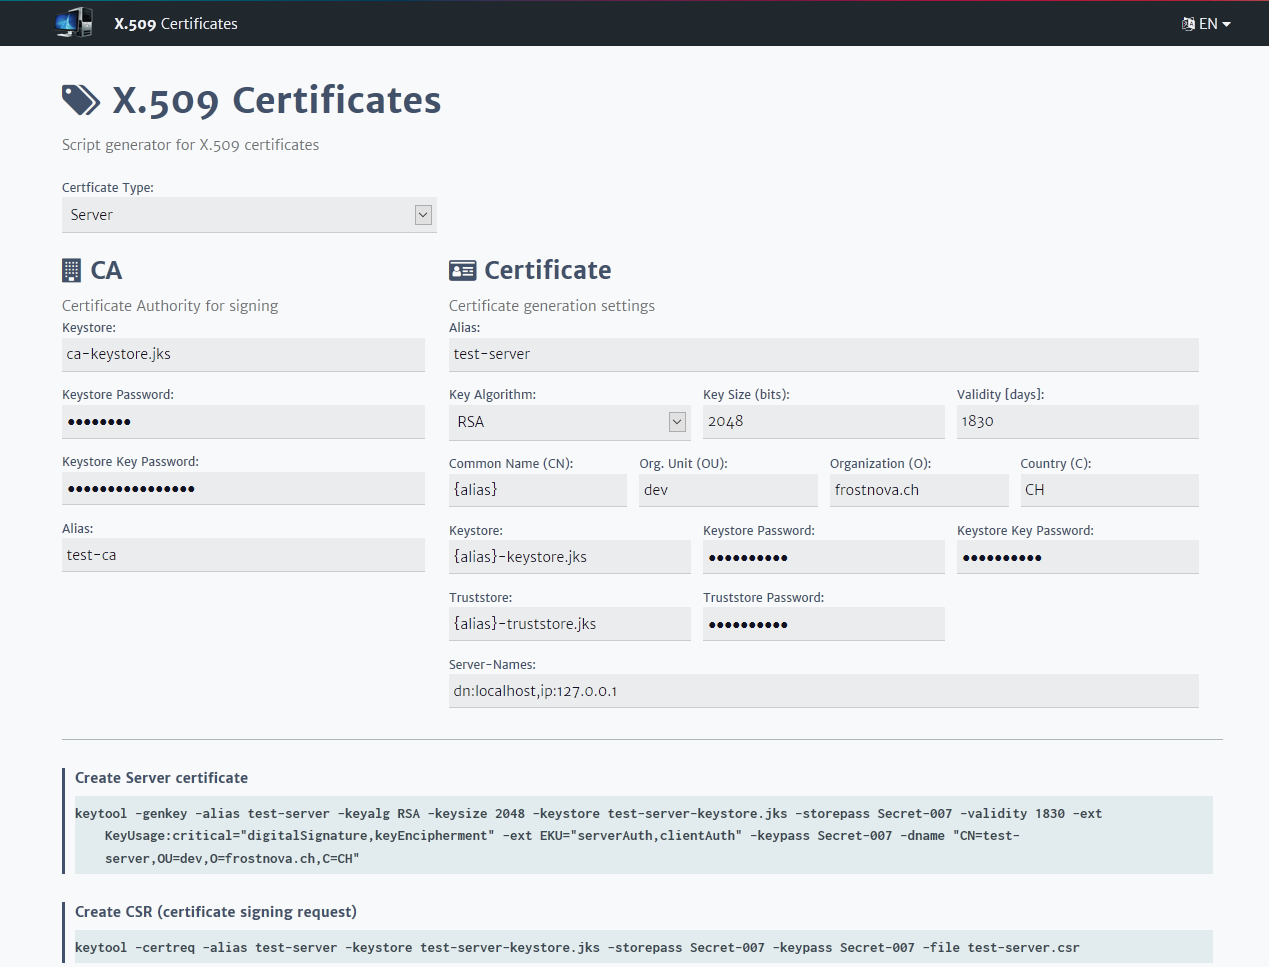
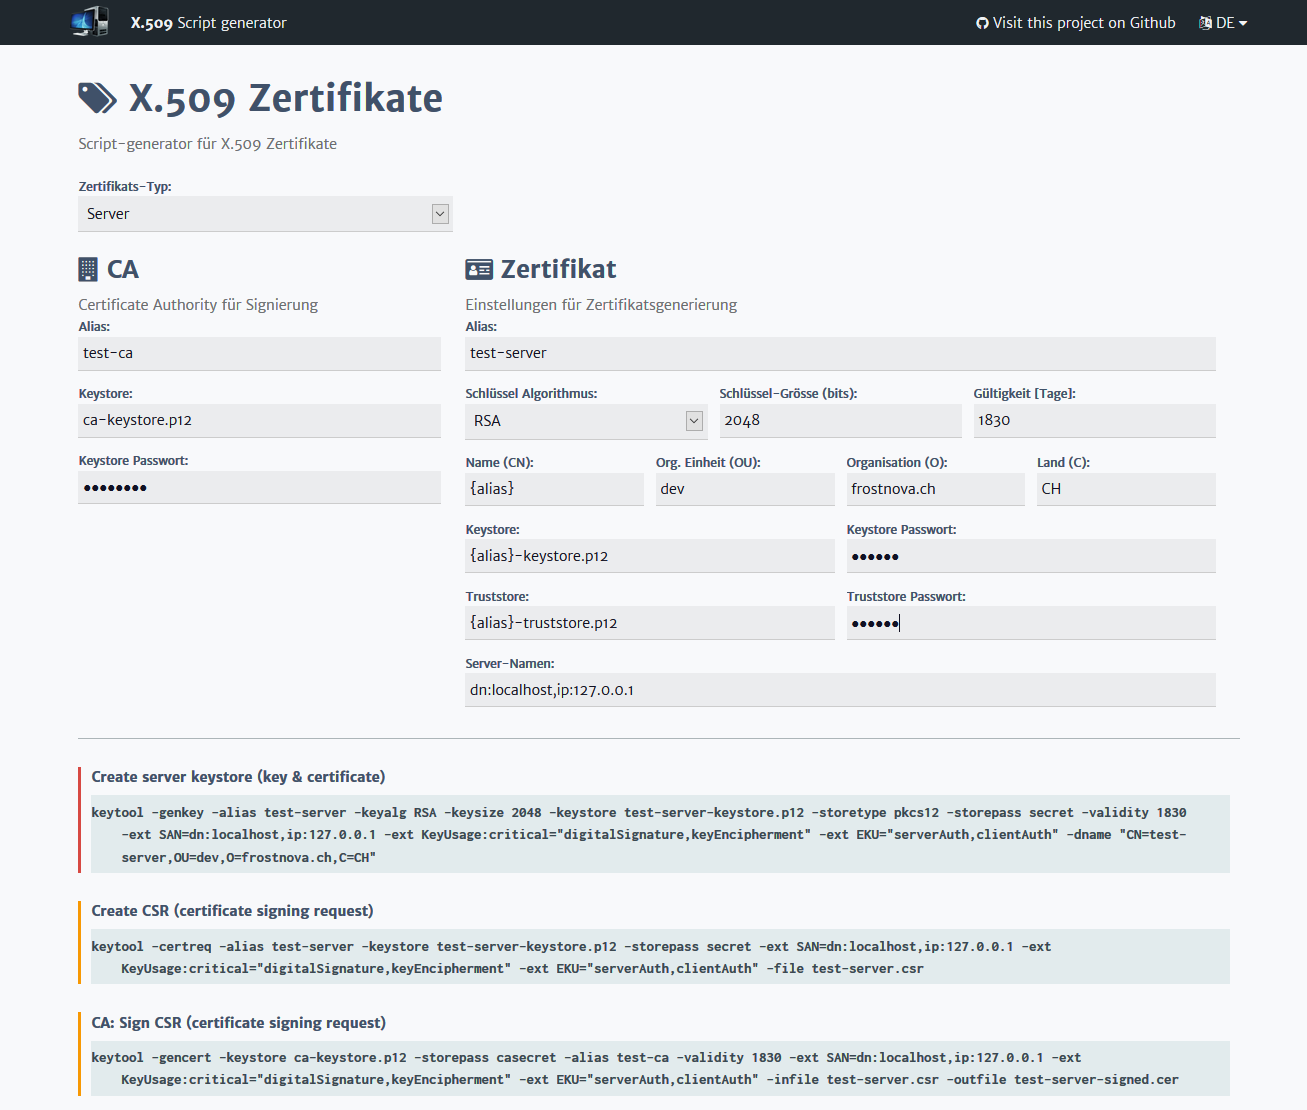
Changed scripts, using P12 instead of old JKS as standard now

diff --git a/src/app/components/certificates/certificates.html b/src/app/components/certificates/certificates.html
@@ -49,13 +49,6 @@
                                          [control]="form.controls.caKeystorePass">
                             <input type="password" formControlName="caKeystorePass">
                         </input-component>
-
-                        <input-component class="col-12" label="certificates.ca.keystoreKeyPass"
-                                         [errors]="form.controls.caKeystoreKeyPass.errors"
-                                         [control]="form.controls.caKeystoreKeyPass">
-                            <input type="password" formControlName="caKeystoreKeyPass">
-                        </input-component>
-
                     </div>
 
                 </div>
@@ -110,28 +103,24 @@
                             <input type="text" formControlName="dnameC">
                         </input-component>
 
-
-                        <input-component class="col-4 col-md-6" label="certificates.cert.keystore"
+                        <input-component class="col-6 col-md-6" label="certificates.cert.keystore"
                                          [errors]="form.controls.keystore.errors"
                                          [control]="form.controls.keystore">
                             <input type="text" formControlName="keystore">
                         </input-component>
-                        <input-component class="col-4 col-md-6" label="certificates.cert.keystorePass"
+                        <input-component class="col-6 col-md-6" label="certificates.cert.keystorePass"
                                          [errors]="form.controls.keystorePass.errors"
                                          [control]="form.controls.keystorePass">
                             <input type="password" formControlName="keystorePass">
                         </input-component>
-                        <input-component class="col-4 col-md-6" label="certificates.cert.keystoreKeyPass"
-                                         [errors]="form.controls.keystoreKeyPass.errors"
-                                         [control]="form.controls.keystoreKeyPass">
-                            <input type="password" formControlName="keystoreKeyPass">
-                        </input-component>
-                        <input-component class="col-4 col-md-6" label="certificates.cert.truststore"
+                        <input-component class="col-6 col-md-6" label="certificates.cert.truststore"
+                                         *ngIf="(certType=='SERVER' || certType=='CLIENT')"
                                          [errors]="form.controls.truststore.errors"
                                          [control]="form.controls.truststore">
                             <input type="text" formControlName="truststore">
                         </input-component>
-                        <input-component class="col-4 col-md-6" label="certificates.cert.truststorePass"
+                        <input-component class="col-6 col-md-6" label="certificates.cert.truststorePass"
+                                         *ngIf="(certType=='SERVER' || certType=='CLIENT')"
                                          [errors]="form.controls.truststorePass.errors"
                                          [control]="form.controls.truststorePass">
                             <input type="password" formControlName="truststorePass">
@@ -154,21 +143,19 @@
         <div class="script red" *ngIf="certType=='CA' && certValid">
             <h5>Create CA keystore (key & certificate)</h5>
             <code>keytool -genkeypair -keyalg {{settings.keyAlg}} -keysize {{settings.keySize}} -alias
-                {{settings.alias}}
-                -keystore {{settings.keystore}} -dname "{{settings.dname}}"
-                -storepass {{settings.keystorePass}} -keypass {{settings.keystoreKeyPass}} -ext
-                KeyUsage:critical="keyCertSign,cRLSign" -ext
-                BasicConstraints:critical="ca:true,pathlen:1" -validity {{settings.validityDays}}
+                {{settings.alias}} -dname "{{settings.dname}}"
+                -keystore {{settings.keystore}} -storetype pkcs12 -storepass {{settings.keystorePass}}
+                -ext KeyUsage:critical="keyCertSign,cRLSign"
+                -ext BasicConstraints:critical="ca:true,pathlen:1" -validity {{settings.validityDays}}
             </code>
         </div>
 
         <div class="script red" *ngIf="(certType=='SERVER' || certType=='CLIENT') && certValid">
             <h5>Create {{settings.certType|lowercase}} keystore (key & certificate)</h5>
             <code> keytool -genkey -alias {{settings.alias}} -keyalg {{settings.keyAlg}} -keysize {{settings.keySize}}
-                -keystore {{settings.keystore}} -storepass {{settings.keystorePass}} -validity {{settings.validityDays}}
+                -keystore {{settings.keystore}} -storetype pkcs12 -storepass {{settings.keystorePass}} -validity {{settings.validityDays}}
                 <span *ngIf="certType=='SERVER' && settings.serverNames">-ext SAN={{settings.serverNames}} </span>
-                -ext KeyUsage:critical="digitalSignature,keyEncipherment" -ext EKU="{{settings.eku}}" -keypass
-                {{settings.keystoreKeyPass}} -dname "{{settings.dname}}"
+                -ext KeyUsage:critical="digitalSignature,keyEncipherment" -ext EKU="{{settings.eku}}" -dname "{{settings.dname}}"
             </code>
         </div>
 
@@ -176,7 +163,7 @@
             <h5>Create CSR (certificate signing request)</h5>
             <code>
                 keytool -certreq -alias {{settings.alias}} -keystore {{settings.keystore}} -storepass
-                {{settings.keystorePass}} -keypass {{settings.keystoreKeyPass}}
+                {{settings.keystorePass}}
                 <span *ngIf="certType=='SERVER' && settings.serverNames">-ext SAN={{settings.serverNames}} </span>
                 -ext KeyUsage:critical="digitalSignature,keyEncipherment" -ext EKU="{{settings.eku}}" -file
                 {{settings.alias}}.csr
@@ -187,7 +174,7 @@
             <h5>CA: Sign CSR (certificate signing request)</h5>
             <code>
                 keytool -gencert -keystore {{settings.caKeystore}} -storepass {{settings.caKeystorePass}} -alias
-                {{settings.caAlias}} -validity {{settings.validityDays}} -keypass {{settings.caKeystoreKeyPass}}
+                {{settings.caAlias}} -validity {{settings.validityDays}}
                 <span *ngIf="certType=='SERVER' && settings.serverNames">-ext SAN={{settings.serverNames}} </span>
                 -ext KeyUsage:critical="digitalSignature,keyEncipherment" -ext EKU="{{settings.eku}}"
                 -infile {{settings.alias}}.csr -outfile {{settings.alias}}-signed.cer
@@ -202,7 +189,7 @@
             </code>
             <code>
                 keytool -import -keystore {{settings.keystore}} -storepass {{settings.keystorePass}}
-                -keypass {{settings.keystoreKeyPass}} -alias {{settings.alias}} -file
+                -alias {{settings.alias}} -file
                 {{settings.alias}}-signed.cer -noprompt
             </code>
         </div>
@@ -219,24 +206,6 @@
             <h5>Export {{settings.certType|lowercase}} public certificate</h5>
             <code>keytool -export -keystore {{settings.keystore}} -storepass {{settings.keystorePass}}
                 -alias {{settings.alias}} -rfc -file {{settings.alias}}.cer
-            </code>
-        </div>
-
-        <div class="script gray" *ngIf="certValid">
-            <h5>Export {{settings.certType|lowercase}} keystore as PKCS#12</h5>
-            <code>keytool -importkeystore -srckeystore {{settings.keystore}} -srcstorepass
-                {{settings.keystorePass}} -alias {{settings.alias}} -srckeypass {{settings.keystoreKeyPass}}
-                -destkeystore {{settings.alias}}-keystore.p12 -deststoretype PKCS12 -deststorepass
-                {{settings.keystorePass}} -destkeypass {{settings.keystorePass}}
-            </code>
-        </div>
-
-        <div class="script gray" *ngIf="(certType=='SERVER' || certType=='CLIENT') && certValid">
-            <h5>Export {{settings.certType|lowercase}} truststore as PKCS#12</h5>
-            <code>
-                keytool -importkeystore -srckeystore {{settings.truststore}} -srcstorepass
-                {{settings.truststorePass}} -destkeystore {{settings.alias}}-truststore.p12 -srcstoretype JKS
-                -deststoretype PKCS12 -deststorepass {{settings.truststorePass}}
             </code>
         </div>
 

diff --git a/src/app/components/certificates/certificates.component.ts b/src/app/components/certificates/certificates.component.ts
@@ -1,5 +1,4 @@
 import {Component, OnInit} from "@angular/core";
-import {Router} from "@angular/router";
 import {FormBuilder, FormGroup, Validators} from "@angular/forms";
 
 @Component({
@@ -15,19 +14,16 @@ export class CertificatesComponent implements OnInit {
     caValid: boolean;
     certValid: boolean;
 
-    constructor(private fb: FormBuilder, private router: Router) {
+    constructor(private fb: FormBuilder) {
     }
 
     ngOnInit(): void {
         this.form = this.fb.group(
             {
                 "caKeystore": ['', Validators.compose(
-                    [Validators.required, Validators.minLength(5), Validators.maxLength(100), Validators.pattern(".+\\.jks")]
+                    [Validators.required, Validators.minLength(5), Validators.maxLength(100), Validators.pattern(".+\\.(p12|pfx)")]
                 )],
                 "caKeystorePass": ['', Validators.compose(
-                    [Validators.required, Validators.minLength(6), Validators.maxLength(64)]
-                )],
-                "caKeystoreKeyPass": ['', Validators.compose(
                     [Validators.required, Validators.minLength(6), Validators.maxLength(64)]
                 )],
                 "caAlias": ['', Validators.compose(
@@ -37,12 +33,9 @@ export class CertificatesComponent implements OnInit {
                     [Validators.required]
                 )],
                 "keystore": ['', Validators.compose(
-                    [Validators.required, Validators.minLength(5), Validators.maxLength(100), Validators.pattern(".+\\.jks")]
+                    [Validators.required, Validators.minLength(5), Validators.maxLength(100), Validators.pattern(".+\\.(p12|pfx)")]
                 )],
                 "keystorePass": ['', Validators.compose(
-                    [Validators.required, Validators.minLength(6), Validators.maxLength(64)]
-                )],
-                "keystoreKeyPass": ['', Validators.compose(
                     [Validators.required, Validators.minLength(6), Validators.maxLength(64)]
                 )],
                 "alias": ['', Validators.compose(
@@ -58,7 +51,7 @@ export class CertificatesComponent implements OnInit {
                     [Validators.required, Validators.minLength(1), Validators.maxLength(10), Validators.pattern("[0-9]+")]
                 )],
                 "truststore": ['', Validators.compose(
-                    [Validators.required, Validators.minLength(5), Validators.maxLength(100), Validators.pattern(".+\\.jks")]
+                    [Validators.required, Validators.minLength(5), Validators.maxLength(100), Validators.pattern(".+\\.(p12|pfx)")]
                 )],
                 "truststorePass": ['', Validators.compose(
                     [Validators.required, Validators.minLength(6), Validators.maxLength(64)]
@@ -83,18 +76,16 @@ export class CertificatesComponent implements OnInit {
 
         var initialFormValue: any = {
             certType: '',
-            caKeystore: 'ca-keystore.jks',
+            caKeystore: 'ca-keystore.p12',
             caKeystorePass: '',
-            caKeystoreKeyPass: '',
             caAlias: 'test-ca',
-            keystore: '{alias}-keystore.jks',
+            keystore: '{alias}-keystore.p12',
             keystorePass: '',
-            keystoreKeyPass: '',
             alias: '',
             keyAlg: 'RSA',
             keySize: '2048',
             validityDays: '1830',
-            truststore: '{alias}-truststore.jks',
+            truststore: '{alias}-truststore.p12',
             truststorePass: '',
             serverNames: 'dn:localhost,ip:127.0.0.1',
             dnameCN: '{alias}',
@@ -114,7 +105,6 @@ export class CertificatesComponent implements OnInit {
                         val.caKeystore = val.keystore.replace('{alias}', this.settings.alias);
                     }
                     val.caKeystorePass = val.keystorePass;
-                    val.caKeystoreKeyPass = val.keystoreKeyPass;
                     this.form.setValue(val, {emitEvent: false});
                 }
             }
@@ -127,9 +117,10 @@ export class CertificatesComponent implements OnInit {
         this.certType = val.certType;
         this.settings = val;
 
-        this.caValid = val.caKeystore && val.caKeystorePass && val.caKeystoreKeyPass && val.caAlias;
+        this.caValid = val.caKeystore && val.caKeystorePass && val.caAlias;
         this.certValid = val.keystore && val.keystorePass && val.alias && val.keyAlg && val.keySize
-            && val.validityDays && val.truststore && val.truststorePass && val.dnameCN;
+            && val.validityDays && val.dnameCN
+            && (this.caValid || val.truststore && val.truststorePass );
 
         if (this.certValid) {
             this.settings.keystore = this.settings.keystore.replace('{alias}', this.settings.alias);
